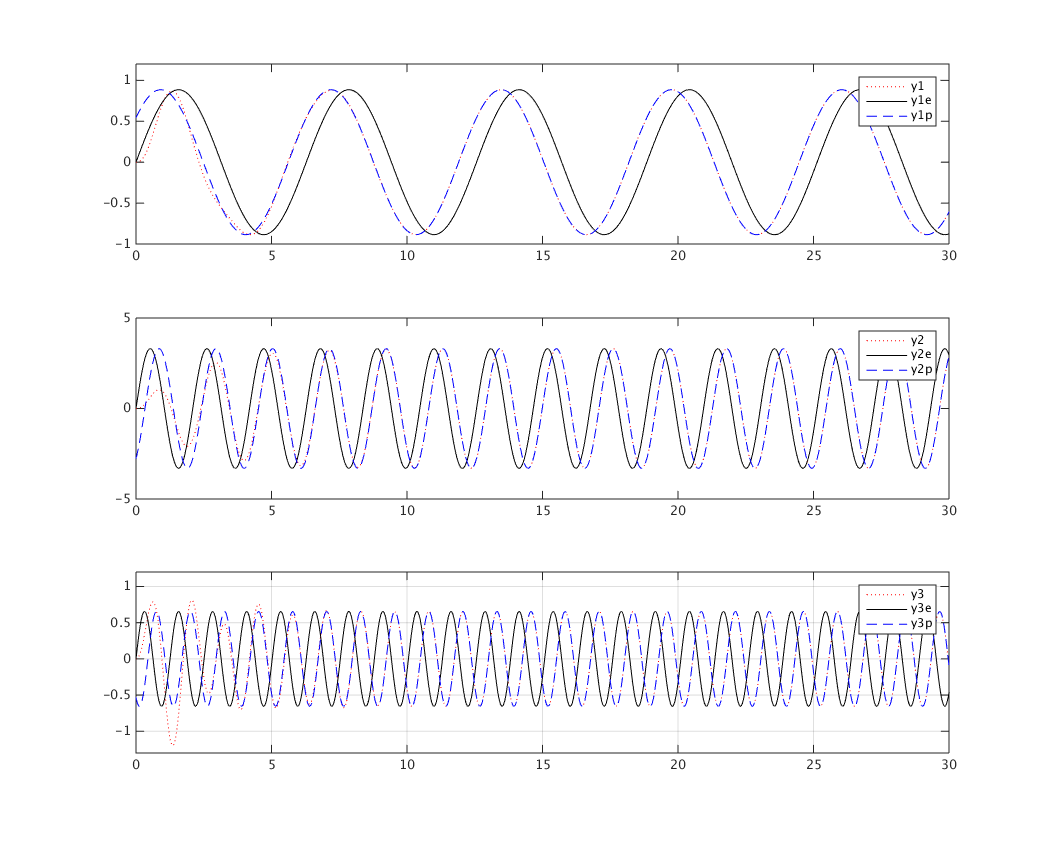
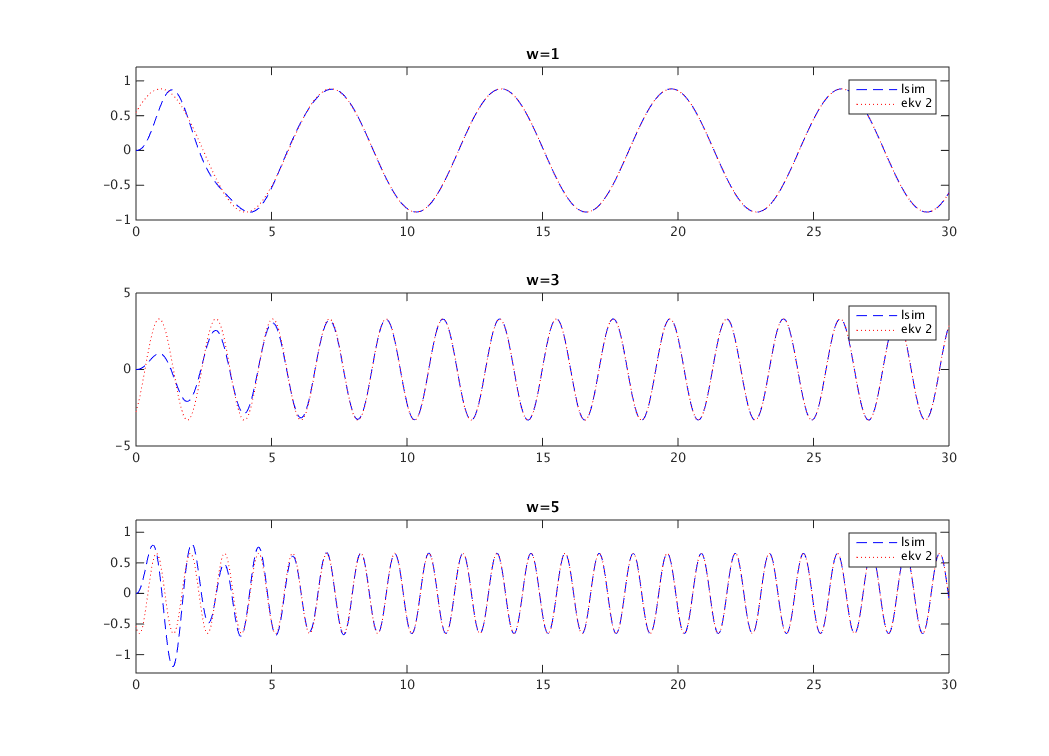
The lab is pretty much done, formating and report remains to be done.

diff --git a/lab.m b/lab.m
@@ -2,7 +2,7 @@
 
 % An = 0
 % Bn = 4/(k*pi)
-% Se uppgift1.txt
+% Se fk.tex
 
 % Uppgift 3.1 b)
 clf
@@ -18,7 +18,7 @@ t=T*(0:M-1)/M;
 
 for n=1:100
     An = 0;
-    Bn = 4*mod(n,2)/(n*pi); %mod(n,2) för att få jämna k.
+    Bn = 4*mod(n,2)/(n*pi);
     x = x + An*cos(n*w*t) + Bn*sin(n*w*t);
 end
 plot(t,x)
@@ -27,7 +27,7 @@ hold on
 %% Uppgift 3.2 a)
 clf
 clc
-
+%y(t)=g(w)sin(wt+phi(w))
 %num = (s.^2+10.1s+1)
 %den = (s.^3+2*s.^2+10*s+9)
 
@@ -52,7 +52,7 @@ x3 = sin(5*t);
 % Amplitud
 % Red
 y1 = lsim(sys,x1,t);
-y2 = lsim(sys,x2,t);bode(H)
+y2 = lsim(sys,x2,t);
 y3 = lsim(sys,x3,t);
 
 % Black
@@ -61,7 +61,7 @@ y2e = abs(evalfr(sys,3j))*x2;
 y3e = abs(evalfr(sys,5j))*x3;
 
 % Fas
-% Green
+% Blue
 phi1 = angle(evalfr(sys,1j));
 x1p = sin(t+phi1);
 y1p = abs(evalfr(sys,1j))*x1p;
@@ -80,23 +80,21 @@ y3p = abs(evalfr(sys,5j))*x3p;
 % bode(sys)
 % pzmap(sys)
 
-% c)
-subplot(3,1,1)
-plot(t,y1, ':r', t, y1e, 'k', t, y1p, '--b')
-axis([0 30 -1 1.2])
-legend('y1', 'y1e', 'y1p')
-
-subplot(3,1,2)
-plot(t,y2, ':r', t, y2e, 'k', t, y2p, '--b')
-axis([0 30 -5 5])
-legend('y2', 'y2e', 'y2p')
-
-subplot(3,1,3)
-plot(t,y3, ':r', t, y3e, 'k', t, y3p, '--b')
-axis([0 30 -1.3 1.2])
-legend('y3', 'y3e', 'y3p')
-
-grid on
+% % c)
+% subplot(3,1,1)
+% plot(t,y1, '--b', t, y1p, ':r')
+% axis([0 30 -1 1.2])
+% legend('lsim', 'ekv 2'), title('w=1')
+% 
+% subplot(3,1,2)
+% plot(t,y2, '--b', t, y2p, ':r')
+% axis([0 30 -5 5])
+% legend('lsim', 'ekv 2'), title('w=3')
+% 
+% subplot(3,1,3)
+% plot(t,y3, '--b', t, y3p, ':r')
+% axis([0 30 -1.3 1.2])
+% legend('lsim', 'ekv 2'), title('w=5')
 %% Uppgift 3.3 a)
 clf
 clc
@@ -110,7 +108,7 @@ x = square(t);
 % x(t) != x(-t) => x är udda
 
 % Uppgift 3.3 b)
-fprintf('Fourierkoefficienter enligt ekv 1:\n\n')
+fprintf('3.3 b: Fourierkoefficienter enligt ekv 1:\n\n')
 for n = 1:5;
     An = 0;
     Bn = 4*mod(n,2)/(n*pi);
@@ -137,7 +135,7 @@ ffx=fft(x, N);
 
 % Uppgift 3.3 d)
 B1 = (2*abs(ffx(k+1)))/N;
-fprintf('Fourierkoefficienter enligt fft:\n\n')
+fprintf('Ekv 10: Fourierkoefficienter enligt fft:\n\n')
 B1max1 = max((B1(1:ceil(kf(2)))));
 B1max2 = max((B1(ceil(kf(2)):ceil(kf(4)))));
 B1max3 = max((B1(ceil(kf(4)):ceil(kf(6)))));
@@ -152,6 +150,8 @@ den = [1 2 10 9];
 H=tf(num, den);
 
 y = lsim(H,x,t);
+
+%plot(t, y);
 
 % Enligt ekv 8
 fprintf('FK enligt ekv 8:\n\n')
@@ -171,15 +171,15 @@ disp(B2max1)
 disp(B2max2)
 disp(B2max3)
  
-% Plot
-subplot(2,1,1)
-plot(wk, abs(B1))
-axis([0 6 -0 1.5])
-grid on
-subplot(2,1,2)
-plot(wk, abs(B2))
-axis([0 6 -0 1.5])
-grid on
+% % Plot
+% subplot(2,1,1)
+% plot(wk, abs(B1))
+% axis([0 6 -0 1.5])
+% grid on
+% subplot(2,1,2)
+% plot(wk, abs(B2))
+% axis([0 6 -0 1.5])
+% grid on
 
 %% Uppgift 3.4 a)
 clc
@@ -189,38 +189,73 @@ syms s;
 
 wc=3;
 Ts = s*(s-1j)*(s+1j)*(s-5j)*(s+5j)*(s-7j)*(s+7j)*(s-9j)*(s+9j);
-
 num = [1 0 156 0 7374 0 106444 0 99225 0];
-nroots = [0 -1j 1j -5j 5j -7j 7j -9j 9j];
-
 Tp = tf(num, 1);
+%bode(Tp);
 
 % Uppgift 3.4 b: n=10, c: n=11)
 Np = 1;
 for n = 1:11
-    Np = Np*(s+4*j);
+    Np = Np*(s+4);
 end
 
 den = sym2poly(Np);
 sys = tf(num,den);
-%bode(sys)
-
+%bode(sys);
 
 % Uppgift 3.4 d)
 Hs=@(s) (s.^9 + 156*s.^7 + 7374*s.^5 + 106444*s.^3 + 99225*s)/(s.^11 + (0+44i)*s.^10 - 880*s.^9 + (-0-1.056e04i)*s.^8+84480*s.^7 + (0+4.731e05i)*s.^6- 1.892e06*s.^5 + (-0-5.407e06i)*s.^4 + 1.081e07*s.^3 + (0+1.442e07i)*s.^2- 1.153e07*s + (-0-4.194e06i));
 % Skalningsfaktor = 1/Hs(3j)
 snum = 1/Hs(3j)*num;
 sys2 = tf(snum, den);
-%bode(sys2)
-
+% bode(sys2, 'r');
+% grid on
+% hold on
+% bode(sys, '--b');
 
 % Uppgift 3.4 e)
+N=8192;
+k = 0:(N-1);
+wk = (2*pi*F*k)/(N);
 F = 100;
 Ts = 1/F;
-t = 0:Ts:4*pi;
+t = 0:Ts:(N-1)*Ts;
 x1 = square(t);
+
+% % x=square(t)
 y = lsim(sys2,x1,t);
+% plot(t,y)
+ffy = fft(y, 8192);
+By = (2*abs(ffy(k+1)))/N;
+% plot(wk, abs(By));
+% axis([0 9 0 20])
+% axis([0 30 -30 20])
 
-plot(t, y)
+% Amplitud hos Notchfiltrets utsignal
+fprintf('Notchamp:\n\n')
+disp(max(y))
+% Amplitud genom DTF och FFT
+fprintf('FFTamp:\n\n')
+disp(max(By))
 
-grid on
+% ysignalen
+num = [1 10.1 1];
+den = [1 2 10 9];
+H=tf(num, den);
+y = lsim(H,x1,t);
+y = lsim(sys2, y,t);
+ffy = fft(y, 8192);
+By = (2*abs(ffy(k+1)))/N;
+
+% Amplitud hos Notchfiltrets utsignal
+fprintf('Notchamp:\n\n')
+disp(max(y))
+% Amplitud genom DTF och FFT
+fprintf('FFTamp:\n\n')
+disp(max(By))
+
+
+%plot(t,y)
+%axis([0 30 -60 60])
+%plot(wk, abs(By));
+%axis([0 9 0 60])
